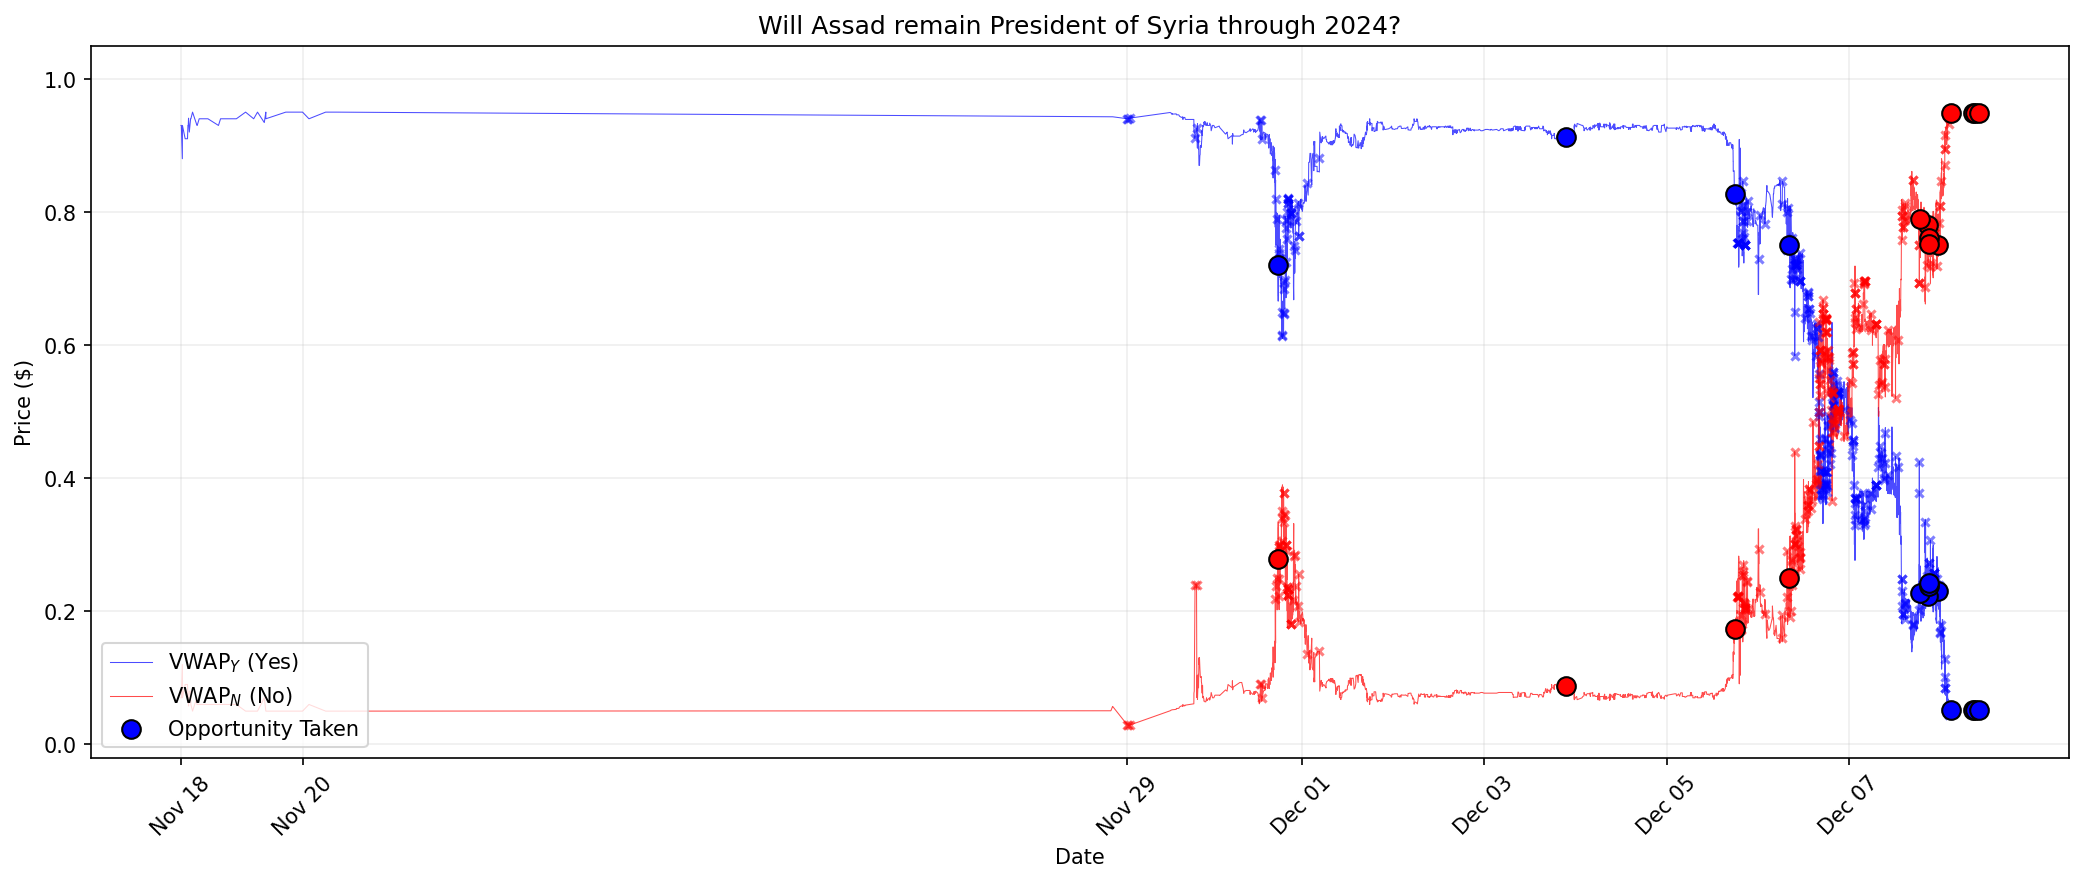
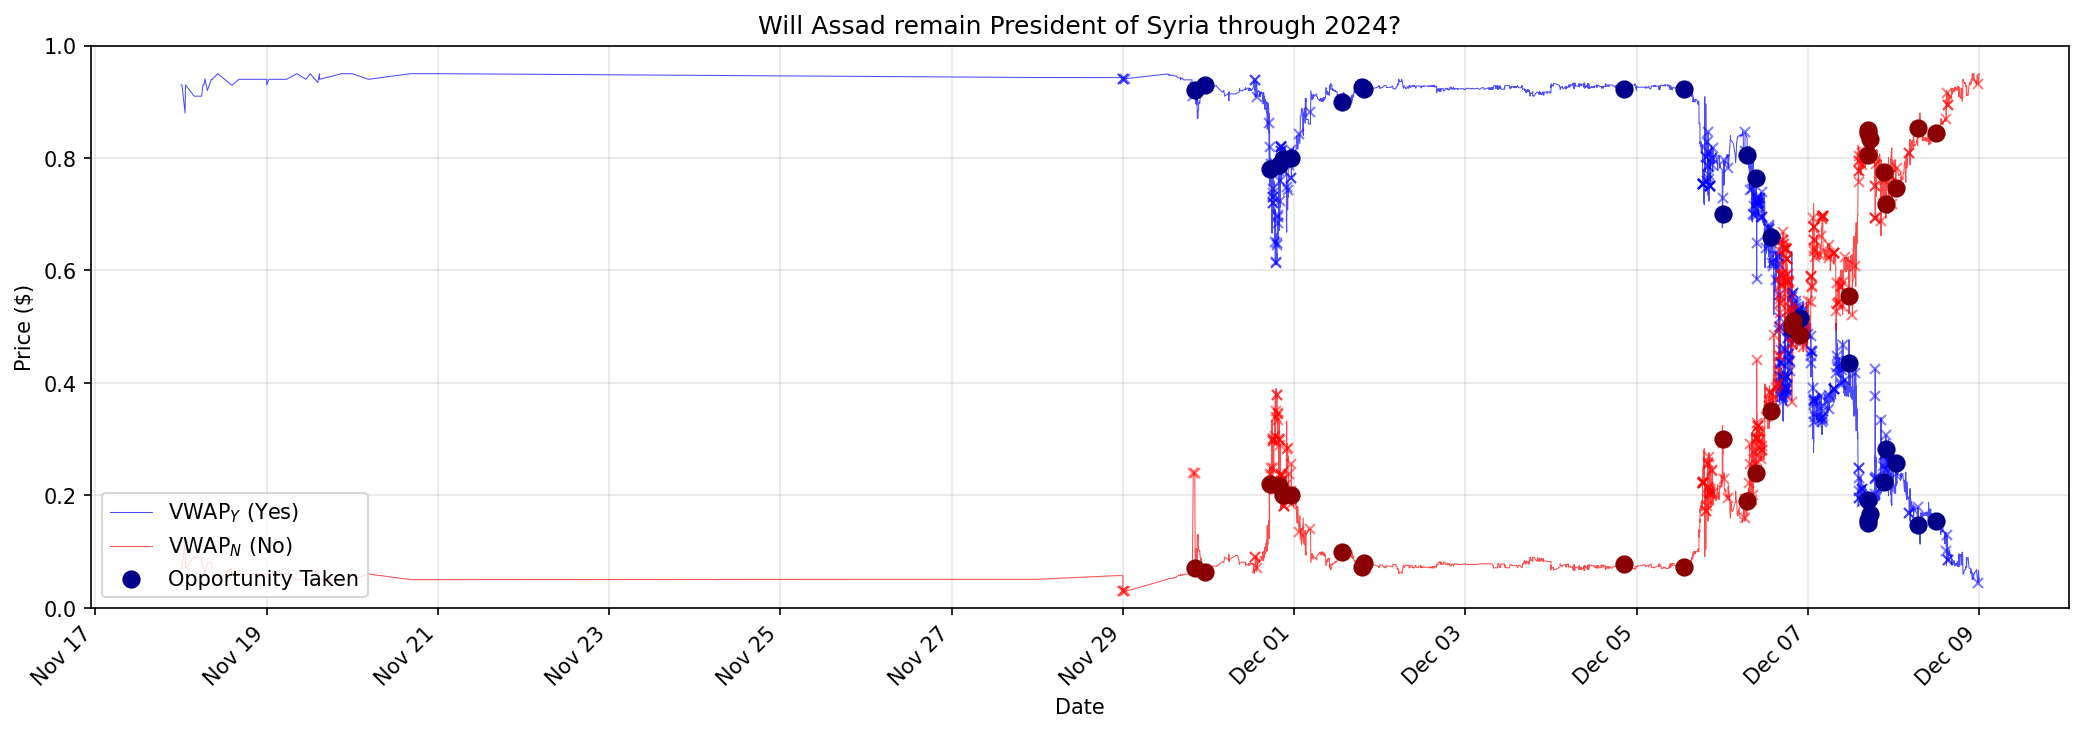
feat: add Figure 5 reproduction script with correct date mapping
Uses actual date column from observations instead of approximate
block-to-datetime conversion (which drifted ~3 days over the range).
Plots VWAP as continuous lines, 'x' markers at arbitrage opportunities
(deviation > θ), and Section 7 trade markers as "Opportunity Taken".

diff --git a/figure5.py b/figure5.py
@@ -1,0 +1,158 @@
+"""
+Reproduce Figure 5 from arXiv:2508.03474.
+
+Shows the VWAP evolution for the Assad market ("Will Assad remain President
+of Syria through 2024?") with arbitrage opportunity markers from Section 7
+trade detection.
+
+Reads from analysis output:
+    cache/arbitrage_results/observations_single.parquet   (Section 6)
+    cache/arbitrage_results/arbitrage_trades_single.parquet (Section 7)
+
+Usage:
+    uv run python figure5.py [--output figure5_assad.png]
+"""
+
+import argparse
+
+import matplotlib.pyplot as plt
+import matplotlib.dates as mdates
+import polars as pl
+from datetime import datetime
+
[1 lines of base64/hex data omitted]
+OBSERVATIONS_PATH = "cache/arbitrage_results/observations_single.parquet"
+TRADES_PATH = "cache/arbitrage_results/arbitrage_trades_single.parquet"
+
+
+
+def load_assad_observations() -> pl.DataFrame:
+    """Load VWAP observations for the Assad market."""
+    df = pl.read_parquet(OBSERVATIONS_PATH)
+    return df.filter(pl.col("condition_id") == ASSAD_CONDITION_ID).sort("block")
+
+
+def load_assad_trades() -> pl.DataFrame:
+    """Load Section 7 arbitrage trades for the Assad market."""
+    df = pl.read_parquet(TRADES_PATH)
+    return df.filter(pl.col("condition_id") == ASSAD_CONDITION_ID).sort("start_block")
+
+
+def build_block_to_datetime(obs: pl.DataFrame) -> dict[int, datetime]:
+    """Map block numbers to datetimes using the actual date column.
+
+    Within each date, observations are spread across the day proportional
+    to their block position.
+    """
+    from datetime import timedelta
+
+    # Get block range per date
+    day_ranges = {}
+    for row in obs.iter_rows(named=True):
+        d = row["date"]
+        b = row["block"]
+        if d not in day_ranges:
+            day_ranges[d] = [b, b]
+        day_ranges[d][0] = min(day_ranges[d][0], b)
+        day_ranges[d][1] = max(day_ranges[d][1], b)
+
+    mapping = {}
+    for row in obs.iter_rows(named=True):
+        b = row["block"]
+        d = row["date"]
+        base = datetime.strptime(d, "%Y-%m-%d")
+        lo, hi = day_ranges[d]
+        frac = (b - lo) / (hi - lo) if hi > lo else 0.5
+        mapping[b] = base + timedelta(hours=frac * 24)
+    return mapping
+
+
+def main():
+    parser = argparse.ArgumentParser(description="Reproduce Figure 5 from arXiv:2508.03474")
+    parser.add_argument("--output", default="figure5_assad.png", help="Output file path")
+    args = parser.parse_args()
+
+    # Load observations
+    obs = load_assad_observations()
+    if len(obs) == 0:
+        print("ERROR: No observations found for Assad market.")
+        print("Run: uv run python analyze_arbitrage.py --market-type single --parquet")
+        return
+
+    print(f"Assad market observations: {len(obs):,}")
+    print(f"Date range: {obs['date'].min()} to {obs['date'].max()}")
+
+    block_dt = build_block_to_datetime(obs)
+    blocks = obs["block"].to_list()
+    dates = [block_dt[b] for b in blocks]
+    yes_vwap = obs["yes_vwap"].to_list()
+    no_vwap = obs["no_vwap"].to_list()
+    deviation = obs["deviation"].to_list()
+
+    # Arbitrage opportunity 'x' markers (Section 6: deviation > θ)
+    arb_dates = []
+    arb_yes = []
+    arb_no = []
+    for i, dev in enumerate(deviation):
+        if dev > 0.02:
+            arb_dates.append(dates[i])
+            arb_yes.append(yes_vwap[i])
+            arb_no.append(no_vwap[i])
+    print(f"Arbitrage opportunity observations (θ > 0.02): {len(arb_dates):,}")
+
+    # Load Section 7 arbitrage trades for "Opportunity Taken" markers
+    trades = load_assad_trades()
+    print(f"Assad arbitrage trades (Section 7): {len(trades):,}")
+
+    # Look up VWAP values at each trade's start_block
+    block_to_idx = {b: i for i, b in enumerate(blocks)}
+    trade_dates = []
+    trade_yes = []
+    trade_no = []
+    for row in trades.iter_rows(named=True):
+        b = row["start_block"]
+        if b in block_to_idx:
+            idx = block_to_idx[b]
+            trade_dates.append(block_dt[b])
+            trade_yes.append(yes_vwap[idx])
+            trade_no.append(no_vwap[idx])
+
+    print(f"Trade markers plotted: {len(trade_dates)}")
+
+    # Plot
+    fig, ax = plt.subplots(figsize=(14, 5))
+
+    # VWAP as continuous thin lines
+    ax.plot(dates, yes_vwap, "-", color="blue", linewidth=0.5, alpha=0.7,
+            label=r"VWAP$_Y$ (Yes)")
+    ax.plot(dates, no_vwap, "-", color="red", linewidth=0.5, alpha=0.7,
+            label=r"VWAP$_N$ (No)")
+
+    # Arbitrage opportunity 'x' markers (only where deviation > θ)
+    ax.plot(arb_dates, arb_yes, "x", color="blue", markersize=5, alpha=0.5)
+    ax.plot(arb_dates, arb_no, "x", color="red", markersize=5, alpha=0.5)
+
+    # Arbitrage trade markers (Section 7 "Opportunity Taken")
+    ax.scatter(trade_dates, trade_yes, s=60, color="darkblue", zorder=5,
+               label="Opportunity Taken")
+    ax.scatter(trade_dates, trade_no, s=60, color="darkred", zorder=5)
+
+    ax.set_xlabel("Date")
+    ax.set_ylabel("Price ($)")
+    ax.set_title("Will Assad remain President of Syria through 2024?")
+    ax.set_ylim(0, 1.0)
+    ax.legend(loc="lower left")
+
+    # Format x-axis dates
+    ax.xaxis.set_major_formatter(mdates.DateFormatter("%b %d"))
+    ax.xaxis.set_major_locator(mdates.DayLocator(interval=2))
+    fig.autofmt_xdate(rotation=45)
+
+    ax.grid(True, alpha=0.3)
+    fig.tight_layout()
+    fig.savefig(args.output, dpi=150, bbox_inches="tight")
+    print(f"Saved to {args.output}")
+
+
+if __name__ == "__main__":
+    main()
